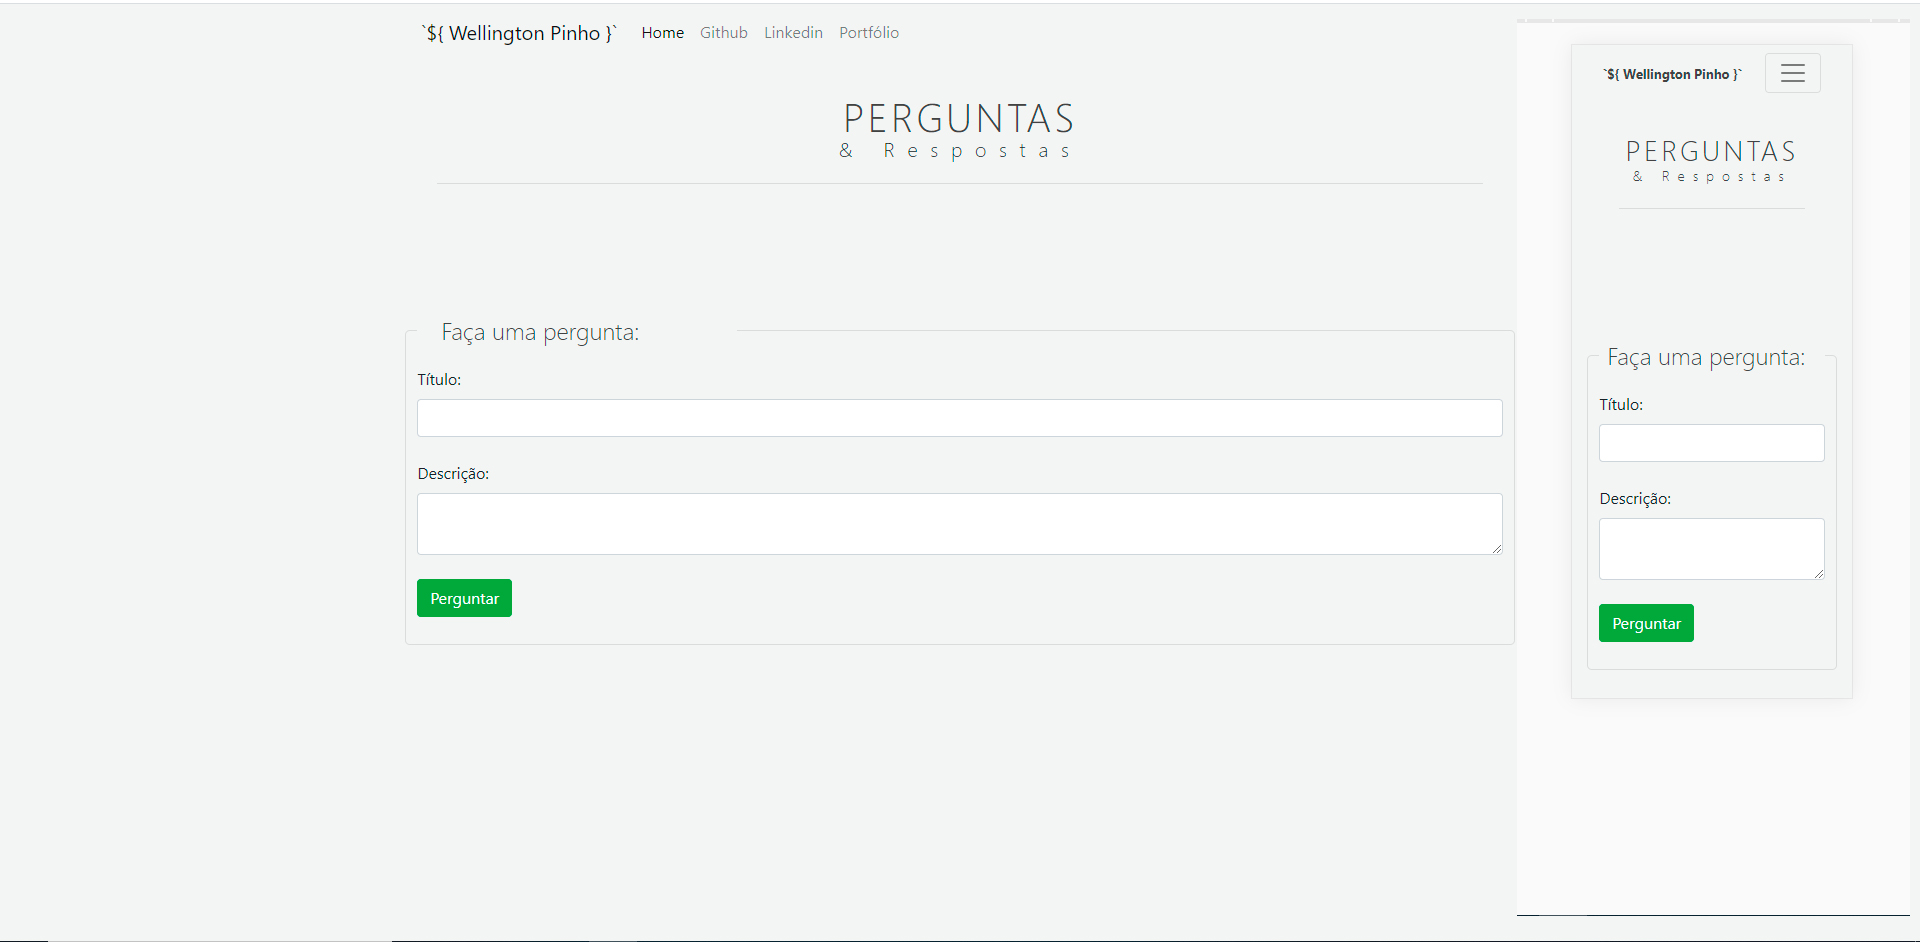
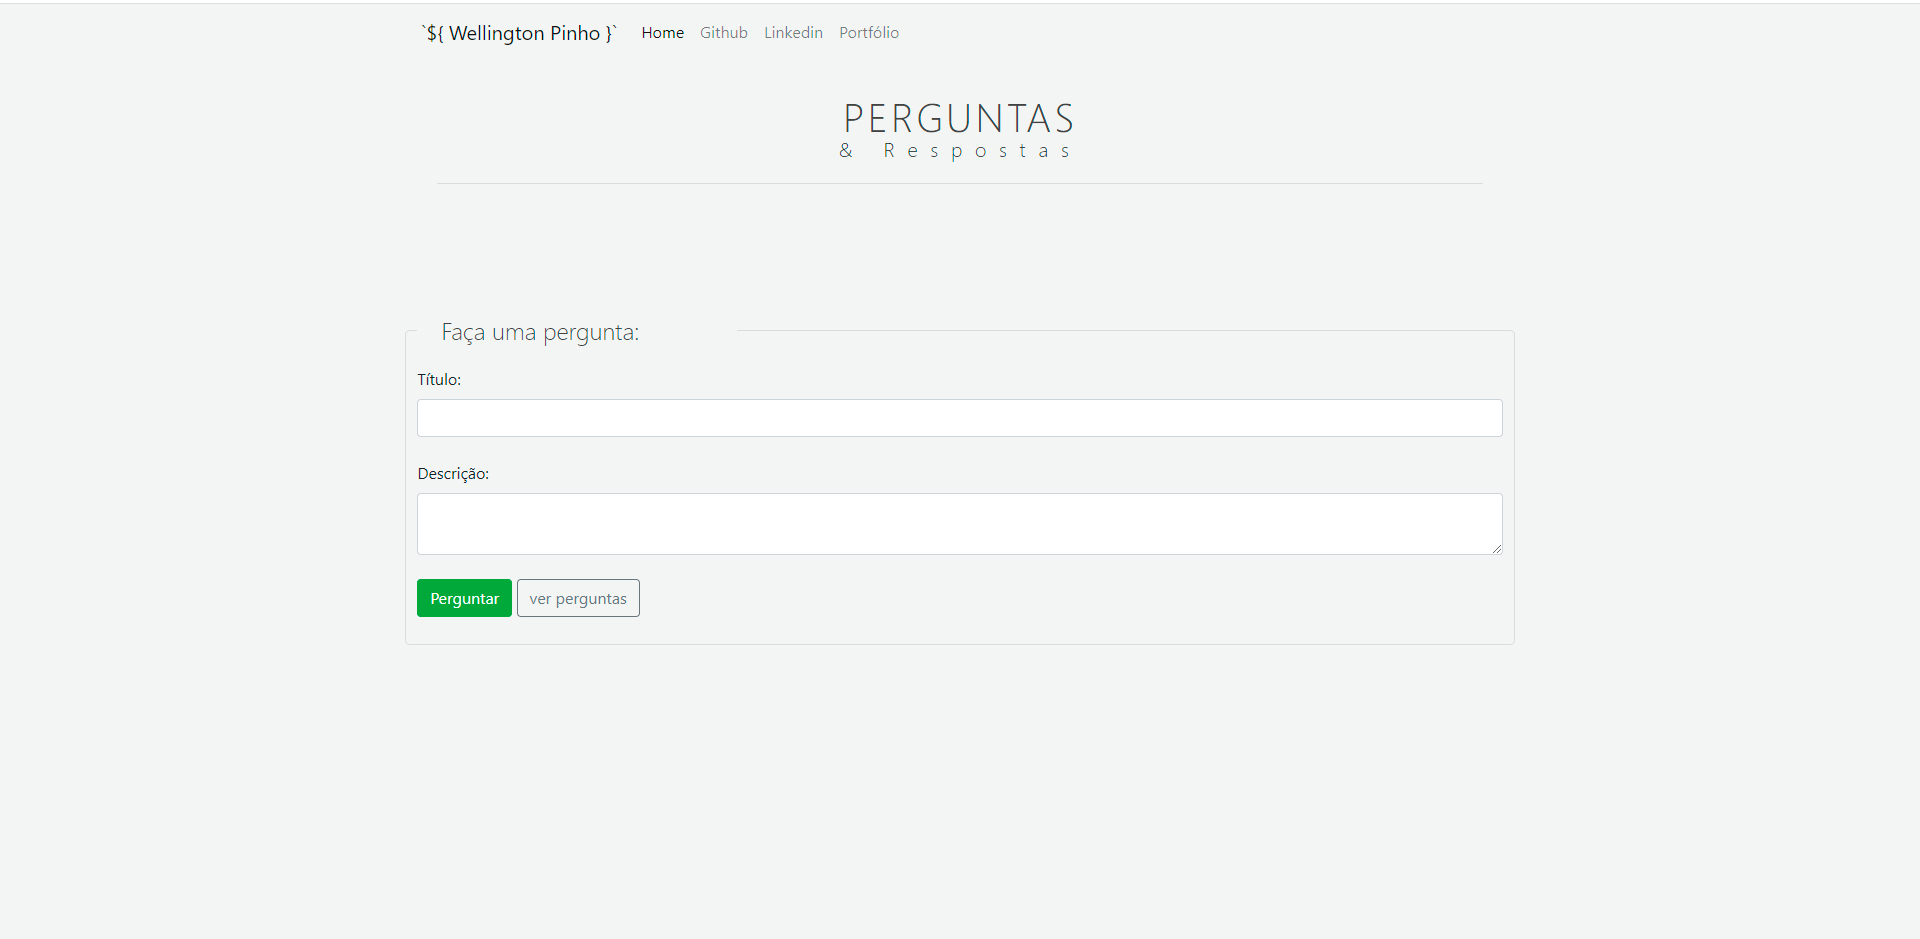
Finalizado crud de perguntas

diff --git a/index.js b/index.js
@@ -1,6 +1,7 @@
 const express = require('express')
 const bodyParser = require('body-parser')
 const database = require('./src/utils/database')
+const cors = require('cors')
 const app = express()
 
 const PerguntasRouter = require('./src/routes/PerguntaRoutes')
@@ -12,6 +13,7 @@ database.authenticate().then(() => {
   console.log('Erro ao conectar no banco de dados')
 })
 
+app.use(cors())
 app.use(bodyParser.urlencoded({ extended: false }))
 app.use(bodyParser.json())
 

diff --git a/README.md b/README.md
@@ -1,4 +1,88 @@
-# perguntas-respostas
-Sistema com NodeJS para perguntas e respostas com mysql
+# Node, Express, Sequelize, body-parser, EJS, Cors
 
+Página home
 ![alt text](./public/img/banner.jpg)
+
+Responsive
+![alt text](./public/img/responsive.jpg)
+
+Página de perguntas, com as postagens ordenadas
+![alt text](./public/img/page-perguntas.jpg)
+
+## Iniciando projeto
+
+
+Este projeto será executado em ** NodeJs ** usando ** Mysql ** como banco de dados. Eu tentei manter a estrutura do código fácil, pois qualquer iniciante também pode adotar o fluxo e começar a construir uma API. O projeto está aberto para sugestões, relatórios de bugs e solicitações de pull.
+
+## Estou aberto para Contrato de Trabalho
+
+Procuro um bom emprego ou contrato de trabalho. Você pode entrar em contato comigo diretamente no meu e-mail ([wellpinho@outlook.com] (mailto: wellpinho@outlook.com "wellpinho@outlook.com")) ou pode baixar meu currículo do meu site [https://wellpinho.com.br] pessoal (https://wellpinho.com.br/).
+
+## Aceito um café
+
+Se você considera meu projeto como algo útil, pode valorizar meu trabalho.
+
+<a href="https://pag.ae/7WrzSVKNN" target="_blank"><img src="https://pag.ae/7WrzSVKNN" alt="Obrigado pelo café" style="height: auto !important;width: auto !important;" ></a>
+
+## Software Requirements
+
+-   Node.js **12+**
+-   Mysql
+
+## Instalação
+
+### Use Git (recomendado)
+
+1.  Clone o projeto do GitHub. Altere "nome-da-pasta" para o nome do seu projeto.
+
+```bash
+[git clone https://github.com/wellpinho/perguntas-respostas.git](https://github.com/wellpinho/perguntas-respostas.git)
+```
+
+### Agora instale os pacotes
+
+```bash
+cd pergunstas-respostas
+npm install
+```
+
+### Despois de instalado os pacotes
+
+```bash
+npm run dev
+```
+
+você pode ver se o servidor funcionou olhando no terminal ou cmd ou outro de sua preferência
+
+```bash
+Running on port http://localhost:8080
+
+a porta foi configurada para 8080 mas você pode mudar no index.js
+
+CTRL + C para para o processo.
+```
+**Note:**  Veja se tem a mensagem: Conetado com sucesso! isso indica que esta conectado também ao banco de dados mysql
+
+confira se você criou o banco de dados conforme expecificado no arquivo database.js dentro da pasta utils
+
+### Considerações finais
+Espero que este pequeno projeto ajdue iniciantes a criarem seus primeiros crud.
+Lembrando que sempre devemos consultar a documentação dos pacotes segue os links:
+
+## Express responsável pelas rotas
+[Express JS](http://expressjs.com/pt-br/)
+
+## Sequelize ORM que faz a ponte entre nodejs e o banco de dados Relacional
+[Sequelize JS](https://sequelize.org/master/)
+
+## EJS faz a função do front end renderizado no lado do servidor
+[EJS](https://ejs.co/)
+
+## O body-parser faz exatamente o que precisamos agora. O body-parser é um módulo capaz de converter o body da requisição para vários formatos. Um desses formatos é json, exatamente o que queremos.
+[body-parser](https://www.npmjs.com/package/body-parser)
+
+## Também uso bastante o npm, lá tem o link para baixar os pacotes atualizados e tem também pequenos trechos explicando como usar ou configura o pacote
+[npm](https://www.npmjs.com/)
+
+###### UM FORTE ABRAÇO E BONS ESTUDOS!!!
+
